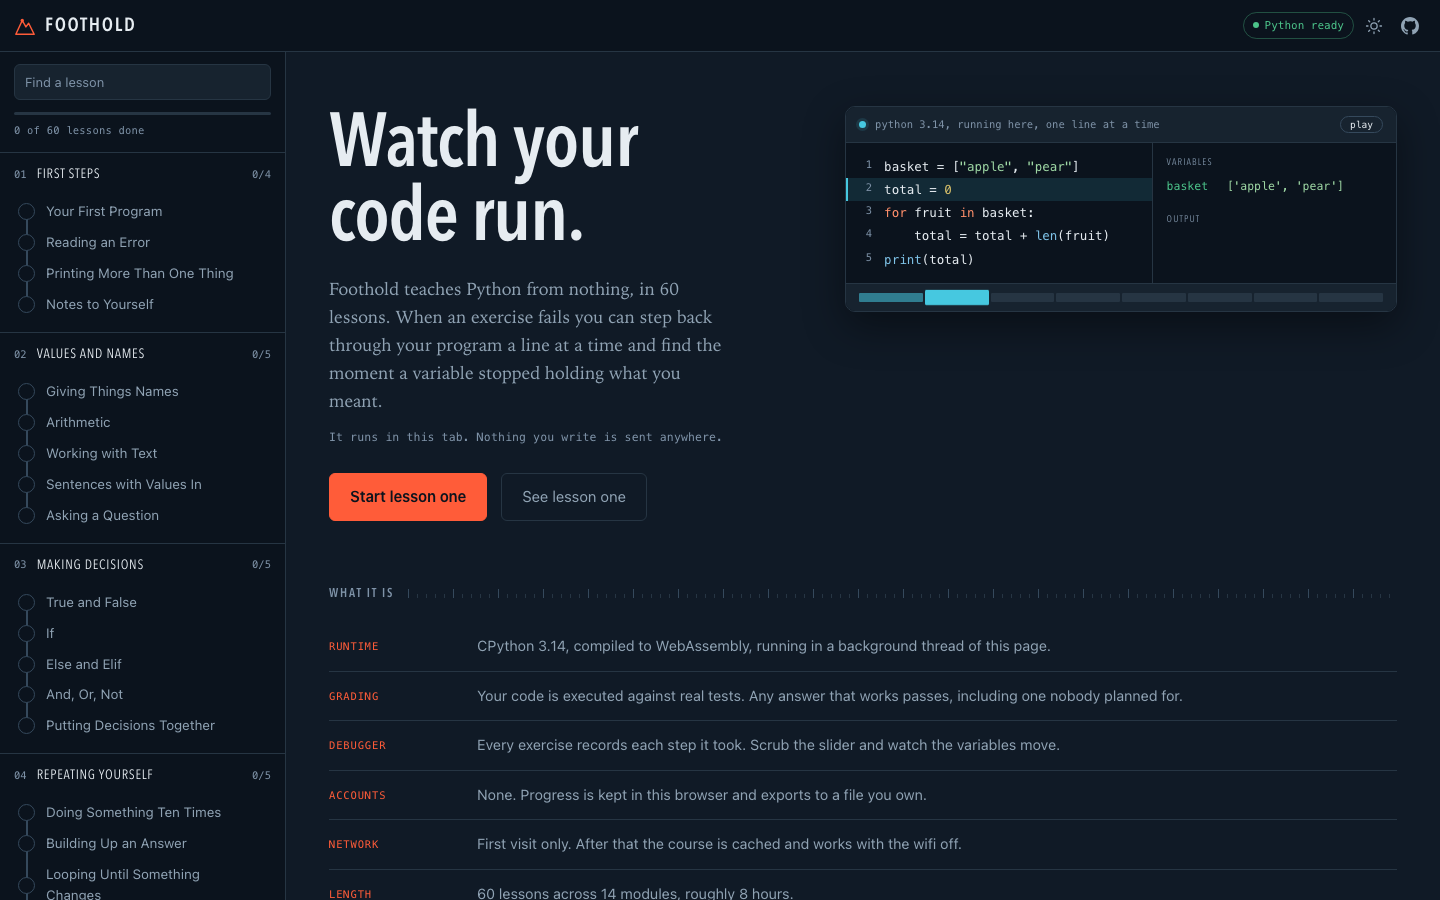
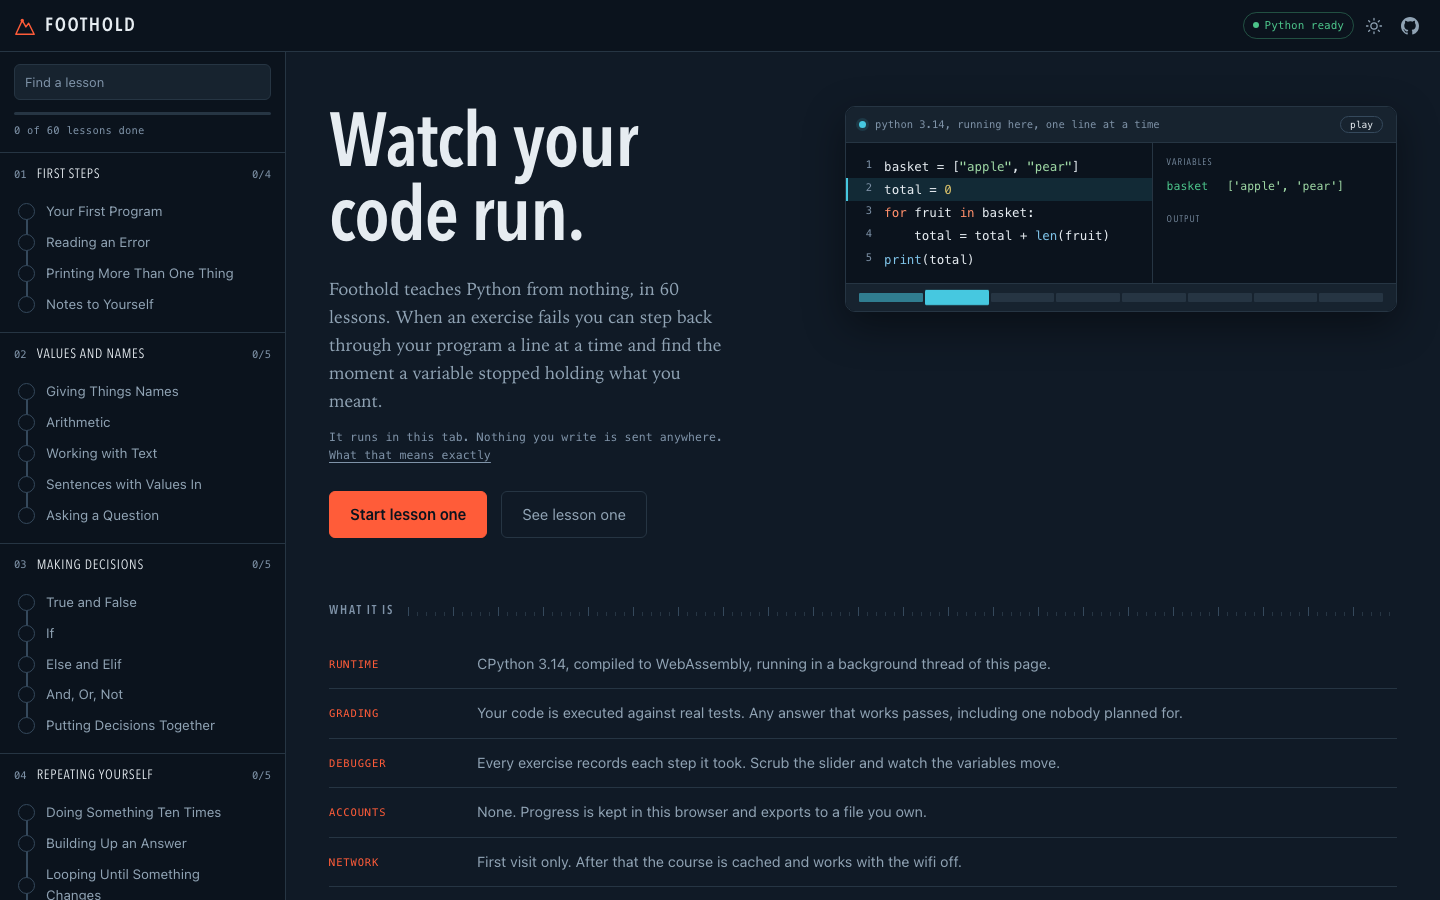
Say what the course does with people's data, in a file a school can read
The claim on the front page was already true - nothing is collected, there
is no analytics, no cookie and no account. It was also unverifiable, and an
IT administrator cannot approve a tool on a sentence in a hero.

PRIVACY.md names the two requests that leave the device on first load, the
two localStorage keys that stay on it, and the fact that a child cannot be
identified because there is no field in which to enter anything. It also
points at vendor_pyodide.sh, which removes the only third-party request and
is what a filtered school network wants regardless.

diff --git a/web/js/ui/home.js b/web/js/ui/home.js
@@ -46,6 +46,8 @@ export function renderHome(mount, manifest, { onExport, onImport, onReset }) {
           </p>
           <p class="hero-fact">
             It runs in this tab. Nothing you write is sent anywhere.
+            <a class="hero-fact-link" href="https://github.com/jbtk-cell/foothold/blob/main/PRIVACY.md"
+               target="_blank" rel="noopener noreferrer">What that means exactly</a>
           </p>
           <div class="hero-actions">
             <a class="btn btn-primary btn-large" href="${

diff --git a/web/css/app.css b/web/css/app.css
@@ -1508,6 +1508,14 @@ p { margin: 0 0 1em; }
 .error-page h1 { font-family: var(--font-display); font-size: 30px; margin-bottom: 14px; }
 .error-page p { color: var(--ink-soft); }
 
+.hero-fact-link {
+  color: var(--ink-faint);
+  text-decoration: underline;
+  text-underline-offset: 3px;
+  white-space: nowrap;
+}
+.hero-fact-link:hover { color: var(--signal); }
+
 .lesson-report {
   margin-top: 26px;
   font-size: 13px;

diff --git a/PRIVACY.md b/PRIVACY.md
@@ -1,0 +1,55 @@
+# Privacy
+
+Foothold collects nothing. There is no analytics script, no tracking pixel, no
+cookie, no account, and no server to send anything to. This page exists so that
+a teacher or an IT administrator can check that claim quickly rather than
+taking it on faith.
+
+## What leaves the device
+
+Two things, both on first load, neither carrying information about the person:
+
+- **The site itself** from GitHub Pages: the page, the stylesheet, the
+  JavaScript, and the lesson text. GitHub receives the request, as any web
+  server does. Their statement covers what that means:
+  <https://docs.github.com/site-policy/privacy-policies/github-privacy-statement>
+- **The Python interpreter** from a CDN, the first time and never again. It is
+  a static file. Foothold tries jsDelivr, then its Fastly and Gcore hostnames,
+  then unpkg, and stops at the first that answers.
+
+Nothing else. Code a learner writes, output it produces, answers it submits,
+and the record of which lessons are finished stay in the browser.
+
+To remove the CDN request entirely, run `./tools/vendor_pyodide.sh` and serve
+the folder yourself. Foothold then makes no third-party request at all, which
+is the arrangement a school with a filtered network usually wants anyway.
+
+## What stays on the device
+
+Two entries in the browser's `localStorage`:
+
+| Key | Holds |
+| --- | --- |
+| `foothold.progress.v1` | which lessons are marked done |
+| `foothold.settings.v1` | the light or dark theme choice |
+
+Clearing site data removes both, and the course starts over. Nothing else is
+stored: no history of the code written, no timings, no identifier of any kind.
+
+## Code a learner writes
+
+It is executed inside the page by CPython compiled to WebAssembly. It is never
+uploaded, never logged, and never seen by anyone but the person who typed it.
+This holds for exercises, the scratch terminal, and the trace.
+
+## Children
+
+Because nothing is collected, there is nothing to collect from a child. There
+is no sign-up, no email field, and no way to enter a name. Foothold does not
+know who is using it, and cannot be made to.
+
+## Changes
+
+Any change to this file appears in the commit history of a public repository,
+so it can be diffed rather than trusted. Questions belong in an issue:
+<https://github.com/jbtk-cell/foothold/issues>.

diff --git a/README.md b/README.md
@@ -11,6 +11,8 @@ back through your own program a line at a time and watch the variables change
 until you find the moment one stopped holding what you meant.
 
 No account. No install. No server. Nothing you write leaves your computer.
+[What that means exactly](PRIVACY.md), for anyone who has to justify the
+choice to a school.
 
 **[Start the course](https://jbtk-cell.github.io/foothold/)**
 
